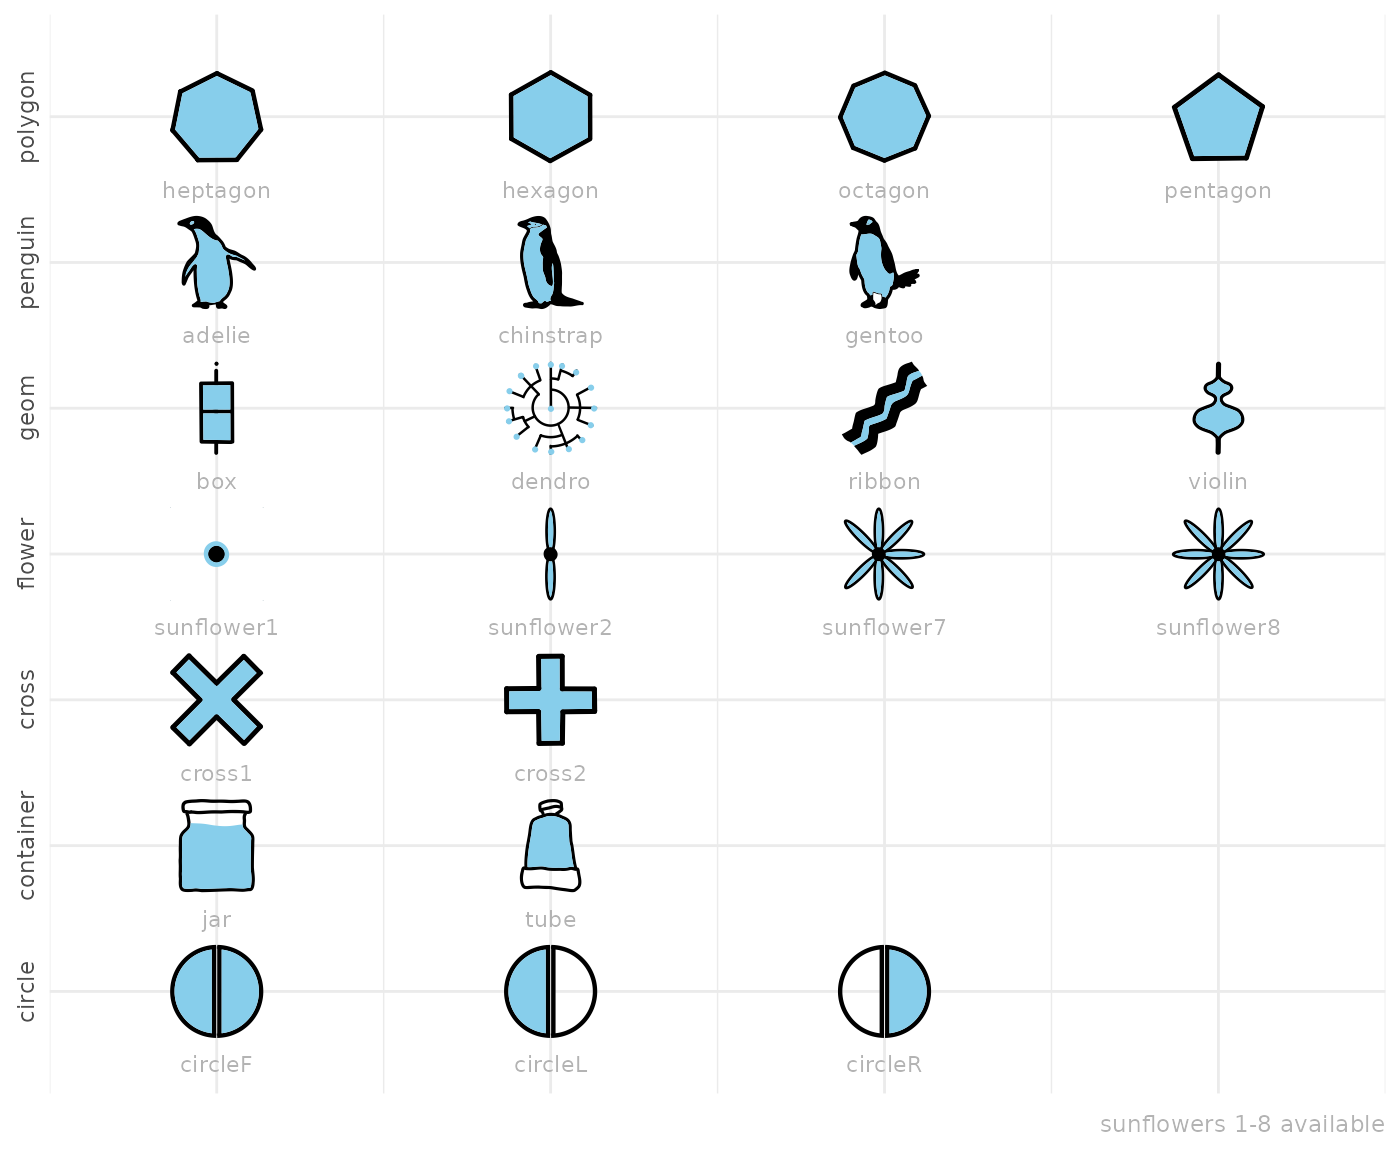
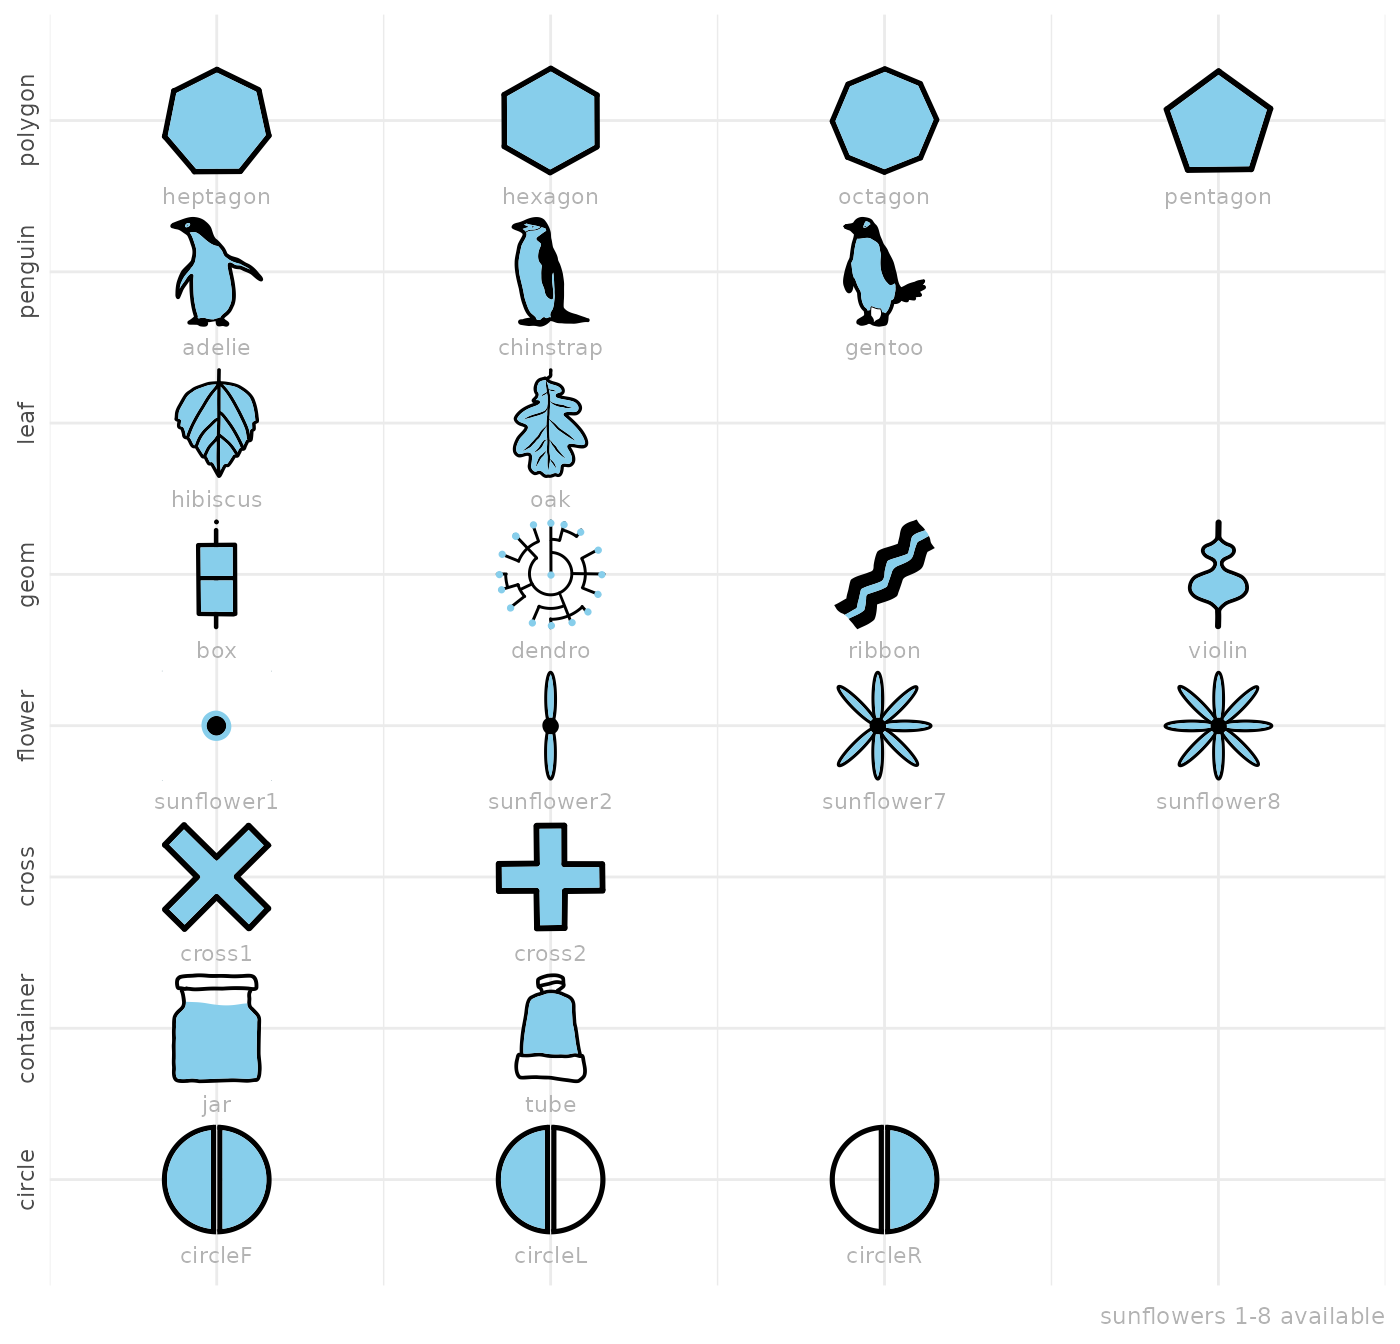
Deploying to gh-pages from @ cgoo4/ggfoundry@f553f37bde413f68317c332cfe72caa3cdb10840 🚀

diff --git a/articles/example_uses.html b/articles/example_uses.html
@@ -106,7 +106,9 @@
 <span><span class="fu"><a href="https://rdrr.io/r/base/message.html" class="external-link">suppressPackageStartupMessages</a></span><span class="op">(</span><span class="kw"><a href="https://rdrr.io/r/base/library.html" class="external-link">library</a></span><span class="op">(</span><span class="va"><a href="https://dplyr.tidyverse.org" class="external-link">dplyr</a></span><span class="op">)</span><span class="op">)</span></span>
 <span><span class="kw"><a href="https://rdrr.io/r/base/library.html" class="external-link">library</a></span><span class="op">(</span><span class="va"><a href="https://github.com/EmilHvitfeldt/paletteer" class="external-link">paletteer</a></span><span class="op">)</span></span>
 <span><span class="kw"><a href="https://rdrr.io/r/base/library.html" class="external-link">library</a></span><span class="op">(</span><span class="va"><a href="https://scales.r-lib.org" class="external-link">scales</a></span><span class="op">)</span></span>
-<span><span class="kw"><a href="https://rdrr.io/r/base/library.html" class="external-link">library</a></span><span class="op">(</span><span class="va"><a href="https://allisonhorst.github.io/palmerpenguins/" class="external-link">palmerpenguins</a></span><span class="op">)</span></span></code></pre></div>
+<span><span class="kw"><a href="https://rdrr.io/r/base/library.html" class="external-link">library</a></span><span class="op">(</span><span class="va"><a href="https://allisonhorst.github.io/palmerpenguins/" class="external-link">palmerpenguins</a></span><span class="op">)</span></span>
+<span><span class="kw"><a href="https://rdrr.io/r/base/library.html" class="external-link">library</a></span><span class="op">(</span><span class="va"><a href="https://github.com/bethatkinson/rpart" class="external-link">rpart</a></span><span class="op">)</span></span>
+<span><span class="kw"><a href="https://rdrr.io/r/base/library.html" class="external-link">library</a></span><span class="op">(</span><span class="va"><a href="https://andrie.github.io/ggdendro/" class="external-link">ggdendro</a></span><span class="op">)</span></span></code></pre></div>
 <div class="section level2">
 <h2 id="exhibit-a-palette">Exhibit a palette<a class="anchor" aria-label="anchor" href="#exhibit-a-palette"></a>
 </h2>
@@ -199,6 +201,38 @@ dataset and ggfoundry’s penguin-set shapes.</p>
 <span>    <span class="op">)</span> <span class="op">+</span></span>
 <span>  <span class="fu"><a href="https://ggplot2.tidyverse.org/reference/guides.html" class="external-link">guides</a></span><span class="op">(</span>shape <span class="op">=</span> <span class="fu"><a href="https://ggplot2.tidyverse.org/reference/guide_legend.html" class="external-link">guide_legend</a></span><span class="op">(</span>override.aes <span class="op">=</span> <span class="fu"><a href="https://rdrr.io/r/base/list.html" class="external-link">list</a></span><span class="op">(</span>size <span class="op">=</span> <span class="fl">8</span><span class="op">)</span><span class="op">)</span><span class="op">)</span></span></code></pre></div>
 <p><img src="example_uses_files/figure-html/unnamed-chunk-2-1.png" width="700"></p>
+</div>
+<div class="section level2">
+<h2 id="leafy-dendrograms">Leafy dendrograms<a class="anchor" aria-label="anchor" href="#leafy-dendrograms"></a>
+</h2>
+<p>Adding appropriate filled shapes to a dendrogram can help draw
+attention to important groupings. Shapes from ggfoundry’s “leaf” set are
+used here to augment a <a href="https://github.com/andrie/ggdendro" class="external-link">ggdendro</a> plot.</p>
+<div class="sourceCode" id="cb6"><pre class="downlit sourceCode r">
+<code class="sourceCode R"><span><span class="va">data</span> <span class="op">&lt;-</span> </span>
+<span>  <span class="fu"><a href="https://rdrr.io/pkg/rpart/man/rpart.html" class="external-link">rpart</a></span><span class="op">(</span><span class="va">Kyphosis</span> <span class="op">~</span> <span class="va">Age</span> <span class="op">+</span> <span class="va">Number</span> <span class="op">+</span> <span class="va">Start</span>, data <span class="op">=</span> <span class="va">kyphosis</span><span class="op">)</span> <span class="op">|&gt;</span> </span>
+<span>  <span class="fu"><a href="https://andrie.github.io/ggdendro/reference/dendro_data.html" class="external-link">dendro_data</a></span><span class="op">(</span><span class="op">)</span></span>
+<span></span>
+<span><span class="fu"><a href="https://ggplot2.tidyverse.org/reference/ggplot.html" class="external-link">ggplot</a></span><span class="op">(</span><span class="op">)</span> <span class="op">+</span></span>
+<span>  <span class="fu"><a href="https://ggplot2.tidyverse.org/reference/geom_segment.html" class="external-link">geom_segment</a></span><span class="op">(</span></span>
+<span>    <span class="fu"><a href="https://ggplot2.tidyverse.org/reference/aes.html" class="external-link">aes</a></span><span class="op">(</span><span class="va">x</span>, <span class="va">y</span>, xend <span class="op">=</span> <span class="va">xend</span>, yend <span class="op">=</span> <span class="va">yend</span><span class="op">)</span>,</span>
+<span>    colour <span class="op">=</span> <span class="st">"tan4"</span>, data <span class="op">=</span> <span class="va">data</span><span class="op">$</span><span class="va">segments</span>,</span>
+<span>  <span class="op">)</span> <span class="op">+</span></span>
+<span>  <span class="fu"><a href="https://ggplot2.tidyverse.org/reference/geom_text.html" class="external-link">geom_label</a></span><span class="op">(</span></span>
+<span>    <span class="fu"><a href="https://ggplot2.tidyverse.org/reference/aes.html" class="external-link">aes</a></span><span class="op">(</span><span class="va">x</span>, <span class="va">y</span>, label <span class="op">=</span> <span class="va">label</span><span class="op">)</span>, </span>
+<span>    size <span class="op">=</span> <span class="fl">3</span>, fill <span class="op">=</span> <span class="st">"seashell"</span>, data <span class="op">=</span> <span class="va">data</span><span class="op">$</span><span class="va">labels</span><span class="op">)</span> <span class="op">+</span></span>
+<span>  <span class="fu"><a href="../reference/geom_casting.html">geom_casting</a></span><span class="op">(</span><span class="fu"><a href="https://ggplot2.tidyverse.org/reference/aes.html" class="external-link">aes</a></span><span class="op">(</span><span class="va">x</span>, <span class="va">y</span>, shape <span class="op">=</span> <span class="va">label</span>, fill <span class="op">=</span> <span class="va">label</span><span class="op">)</span>, </span>
+<span>               colour <span class="op">=</span> <span class="st">"tan4"</span>, size <span class="op">=</span> <span class="fl">0.27</span>, data <span class="op">=</span> <span class="va">data</span><span class="op">$</span><span class="va">leaf_labels</span><span class="op">)</span> <span class="op">+</span></span>
+<span>  <span class="fu"><a href="https://ggplot2.tidyverse.org/reference/scale_manual.html" class="external-link">scale_shape_manual</a></span><span class="op">(</span>values <span class="op">=</span> <span class="fu"><a href="https://rdrr.io/r/base/c.html" class="external-link">c</a></span><span class="op">(</span><span class="st">"hibiscus"</span>, <span class="st">"oak"</span><span class="op">)</span><span class="op">)</span> <span class="op">+</span></span>
+<span>  <span class="fu"><a href="https://ggplot2.tidyverse.org/reference/scale_manual.html" class="external-link">scale_fill_manual</a></span><span class="op">(</span>values <span class="op">=</span> <span class="fu"><a href="https://rdrr.io/r/base/c.html" class="external-link">c</a></span><span class="op">(</span><span class="st">"olivedrab3"</span>, <span class="st">"darkorange"</span><span class="op">)</span><span class="op">)</span> <span class="op">+</span></span>
+<span>  <span class="fu"><a href="https://ggplot2.tidyverse.org/reference/labs.html" class="external-link">labs</a></span><span class="op">(</span>title <span class="op">=</span> <span class="st">"Leafy Dendrogram"</span>, shape <span class="op">=</span> <span class="st">"Kyphosis"</span>, fill <span class="op">=</span> <span class="st">"Kyphosis"</span><span class="op">)</span> <span class="op">+</span></span>
+<span>  <span class="fu"><a href="https://andrie.github.io/ggdendro/reference/theme_dendro.html" class="external-link">theme_dendro</a></span><span class="op">(</span><span class="op">)</span> <span class="op">+</span></span>
+<span>  <span class="fu"><a href="https://ggplot2.tidyverse.org/reference/theme.html" class="external-link">theme</a></span><span class="op">(</span></span>
+<span>    plot.title <span class="op">=</span> <span class="fu"><a href="https://ggplot2.tidyverse.org/reference/element.html" class="external-link">element_text</a></span><span class="op">(</span>hjust <span class="op">=</span> <span class="fl">0.5</span><span class="op">)</span>,</span>
+<span>    legend.key.size <span class="op">=</span> <span class="fu"><a href="https://rdrr.io/r/grid/unit.html" class="external-link">unit</a></span><span class="op">(</span><span class="fl">2</span>, <span class="st">"line"</span><span class="op">)</span>,</span>
+<span>    legend.position <span class="op">=</span> <span class="st">"top"</span></span>
+<span>    <span class="op">)</span></span></code></pre></div>
+<p><img src="example_uses_files/figure-html/unnamed-chunk-3-1.png" width="700"></p>
 </div>
   </main><aside class="col-md-3"><nav id="toc"><h2>On this page</h2>
     </nav></aside>

diff --git a/reference/shapes_cast.html b/reference/shapes_cast.html
@@ -106,13 +106,15 @@ filtered and used as a vector of strings in <code>scale_shape_manual</code>.</p>
 <span class="r-out co"><span class="r-pr">#&gt;</span> 33      geom     dendro</span>
 <span class="r-out co"><span class="r-pr">#&gt;</span> 35      geom     ribbon</span>
 <span class="r-out co"><span class="r-pr">#&gt;</span> 37      geom     violin</span>
-<span class="r-out co"><span class="r-pr">#&gt;</span> 39   penguin     adelie</span>
-<span class="r-out co"><span class="r-pr">#&gt;</span> 41   penguin  chinstrap</span>
-<span class="r-out co"><span class="r-pr">#&gt;</span> 43   penguin     gentoo</span>
-<span class="r-out co"><span class="r-pr">#&gt;</span> 45   polygon   heptagon</span>
-<span class="r-out co"><span class="r-pr">#&gt;</span> 47   polygon    hexagon</span>
-<span class="r-out co"><span class="r-pr">#&gt;</span> 49   polygon    octagon</span>
-<span class="r-out co"><span class="r-pr">#&gt;</span> 51   polygon   pentagon</span>
+<span class="r-out co"><span class="r-pr">#&gt;</span> 39      leaf   hibiscus</span>
+<span class="r-out co"><span class="r-pr">#&gt;</span> 41      leaf        oak</span>
+<span class="r-out co"><span class="r-pr">#&gt;</span> 43   penguin     adelie</span>
+<span class="r-out co"><span class="r-pr">#&gt;</span> 45   penguin  chinstrap</span>
+<span class="r-out co"><span class="r-pr">#&gt;</span> 47   penguin     gentoo</span>
+<span class="r-out co"><span class="r-pr">#&gt;</span> 49   polygon   heptagon</span>
+<span class="r-out co"><span class="r-pr">#&gt;</span> 51   polygon    hexagon</span>
+<span class="r-out co"><span class="r-pr">#&gt;</span> 53   polygon    octagon</span>
+<span class="r-out co"><span class="r-pr">#&gt;</span> 55   polygon   pentagon</span>
 </code></pre></div>
     </div>
   </main><aside class="col-md-3"><nav id="toc"><h2>On this page</h2>

diff --git a/news/index.html b/news/index.html
@@ -61,7 +61,8 @@
 
     <div class="section level2">
 <h2 class="pkg-version" data-toc-text="development version" id="ggfoundry-development-version">ggfoundry (development version)<a class="anchor" aria-label="anchor" href="#ggfoundry-development-version"></a></h2>
-<ul><li>New <code><a href="../reference/display_palette.html">display_palette()</a></code> uses a fillable shape for palette and hex codes.</li>
+<ul><li>2 shapes (“oak” &amp; “hibiscus”) added to a “leaf” set (<a href="https://github.com/cgoo4/ggfoundry/issues/10" class="external-link">#10</a>).</li>
+<li>New <code><a href="../reference/display_palette.html">display_palette()</a></code> uses a fillable shape for palette &amp; hex codes (<a href="https://github.com/cgoo4/ggfoundry/issues/9" class="external-link">#9</a>).</li>
 <li>Uses <code>cli_abort</code>, instead of <code>abort</code>, for error message handling.</li>
 <li>Added use of <code>use_spell_check()</code>.</li>
 </ul></div>
